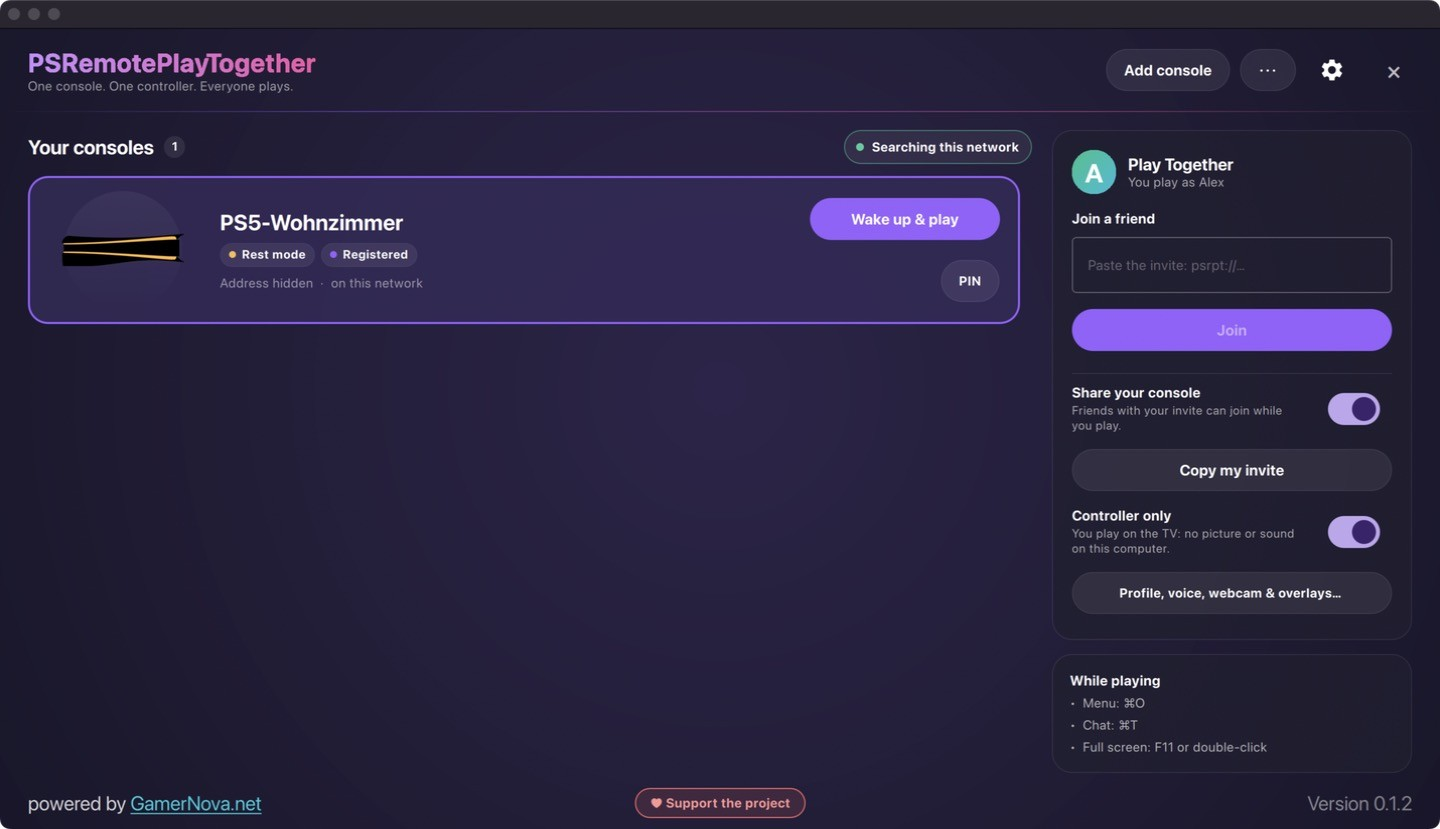
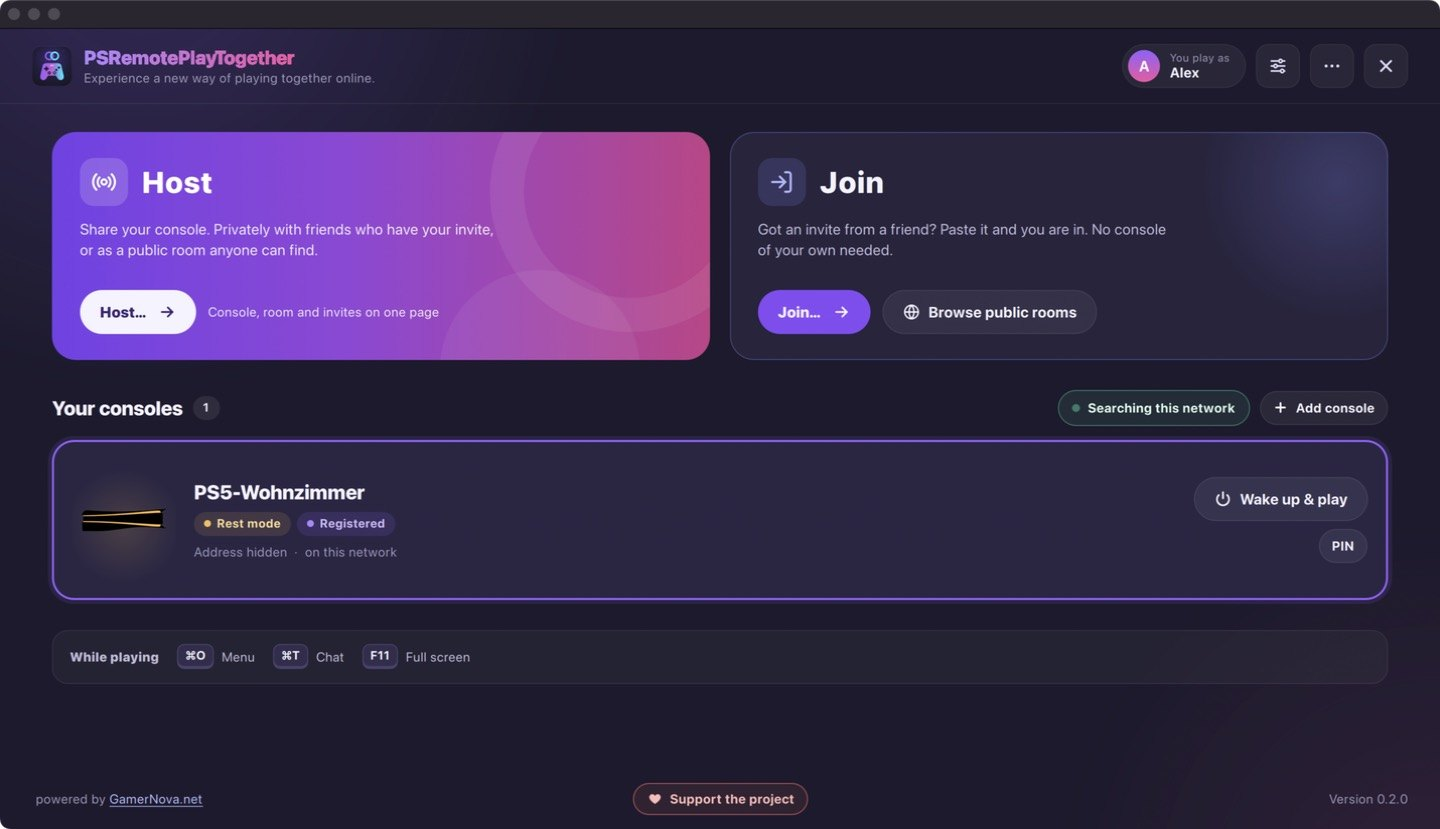
README: the new look, with new screenshots
New screenshots of the redesigned app with made-up players and a stand-in
for the game picture: the start page, the Host page, the public rooms with
live pictures and who plays, the stream menu with the Play Together panel,
the settings window, and the page for browsers. The features list gains
the live rooms, the new look and the settings window; the public rooms
section says what is live and who is shown; menu paths point to the new
settings pages (README, docs, server READMEs). The CHANGELOG has the
redesign and the settings window.

coplay-sim sends its guests' own pictures to the list as well, where they
are small JPEGs, as the app does.

diff --git a/coplay/tools/sim.cpp b/coplay/tools/sim.cpp
@@ -97,8 +97,9 @@ static void Usage()
 		"                          finds it in Sony's catalog by the title id)\n"
 		"      --preview A.jpg     a picture of the game for the list (a JPEG of at most 640x360),\n"
 		"                          sent as often as the list asks, as the app sends a frame\n"
-		"      --face A.jpg        the host's picture for the list (a JPEG of at most 128x128);\n"
-		"                          guests show their initial there\n"
+		"      --face A.jpg        the host's picture for the list (a JPEG of at most 128x128); the\n"
+		"                          guests' own pictures go along where they are such JPEGs too,\n"
+		"                          the others show their initial there\n"
 		"      --policy ask|watch|open  who gets in (default open); \"ask\" lets each one in\n"
 		"                          after --admit-after seconds, or refuses with --refuse\n"
 		"      --admit-after N     seconds before a guest that knocks is let in (default 3)\n"
@@ -843,11 +844,27 @@ static int RunHost(const Options &o)
 		if(face_encoded.empty())
 			std::fprintf(stderr, "--face: cannot read %s\n", o.face.c_str());
 	}
-	// The host's picture first, nothing for the guests: sent when the players change
-	auto send_faces = [&](size_t players) {
+	// The host's picture first, then each guest's where it is a small JPEG (the list takes
+	// nothing else; the app makes one of any picture): sent when the players or their pictures change
+	auto guest_faces = [&]() {
+		std::vector<std::string> faces;
+		for(const GuestInfo &g : host.Guests())
+		{
+			BlobData data = g.avatar.Valid() ? host.Avatar(g.avatar.hash) : nullptr;
+			bool jpeg = data && data->size() >= 3 && data->size() <= 8 * 1024
+				&& (*data)[0] == 0xff && (*data)[1] == 0xd8 && (*data)[2] == 0xff;
+			faces.push_back(jpeg ? url64(*data) : std::string());
+		}
+		return faces;
+	};
+	std::string faces_sent;
+	auto send_faces = [&](size_t) {
 		std::string list = face_encoded;
-		for(size_t i = 1; i < players; i++)
-			list += ",";
+		for(const std::string &face : guest_faces())
+			list += "," + face;
+		if(list == faces_sent)
+			return;
+		faces_sent = list;
 		HttpRequest request;
 		request.url = o.rooms;
 		request.body = FormBody({ { "v", "1" }, { "action", "faces" }, { "id", room_id }, { "token", room_token },
@@ -895,6 +912,9 @@ static int RunHost(const Options &o)
 				if(changed && !face_encoded.empty())
 					send_faces(players);
 			}
+			// A guest's picture arrives a moment after the guest
+			if(!face_encoded.empty() && players > 1)
+				send_faces(players);
 			if(!preview_encoded.empty() && now >= next_preview)
 			{
 				next_preview = now + std::chrono::seconds(45);

diff --git a/README.md b/README.md
@@ -139,12 +139,22 @@ Guests need **no PlayStation and no PSN account**. The invite contains the host'
   </tr>
   <tr>
     <td width="50%">
-      <h3>🌍 Public rooms</h3>
-      Host privately for your friends, or list your session as a public room with a title, a language and the game that runs. Others search the list by title, game, host or language, in the app or in a browser, see who controls and how many play, and join.
+      <h3>🌍 Public rooms, live</h3>
+      Host privately for your friends, or list your session as a public room with a title, a language and the game that runs. The list shows a <b>live picture</b> of every game and <b>who plays</b>, with their pictures. Search it by title, game, host or language, in the app or in a browser, and join.
     </td>
     <td width="50%">
       <h3>🚦 You decide who gets in</h3>
       Let each player in yourself, let newcomers watch until you let them play, or open the door to everybody. Close the room to newcomers at any time, and remove a player, for good if you like.
+    </td>
+  </tr>
+  <tr>
+    <td width="50%">
+      <h3>🎨 A new look</h3>
+      Two doors on the start page, <b>Host</b> and <b>Join</b>, each one page from start to finish. In the game, Play Together sits in a panel at the side. Everything works with a controller as well as with a mouse.
+    </td>
+    <td width="50%">
+      <h3>⚙ One settings window</h3>
+      All settings in one place, in plain words, with a search that finds any of them. Your profile shows how the others see you.
     </td>
   </tr>
 </table>
@@ -171,7 +181,9 @@ Guests need **no PlayStation and no PSN account**. The invite contains the host'
 When a guest leaves, the console stays as it is: only you send it to sleep, unless you switched on **Guests may put the console to sleep when they leave**, for example for a friend who plays on while you are away.
 
 <div align="center">
-  <img src="docs/images/screenshots/start-page.jpg" alt="The start page: your console, joining a friend, sharing your console and Controller only" width="820">
+  <img src="docs/images/screenshots/start-page.jpg" alt="The start page: Host and Join, and your consoles" width="820">
+  <br><br>
+  <img src="docs/images/screenshots/host.jpg" alt="The Host page: the console, private or public room, who gets in, players, how your room looks in the list, and the invites" width="820">
 </div>
 
 ### Does the host have to open a port?
@@ -182,7 +194,7 @@ Usually not.
 | :--- | :--- |
 | in the same network or the same VPN | Nothing. Send the **Same network** invite. |
 | somewhere on the internet | With most routers: nothing. Send the **Internet** invite. The two apps find each other through a small **meeting point** on the internet and then connect directly. |
-| somewhere on the internet, and it does not connect | Forward **UDP port 9410** to your computer in your router. That always works, and it is used by itself as soon as it is there. The port can be changed under Play Together. |
+| somewhere on the internet, and it does not connect | Forward **UDP port 9410** to your computer in your router. That always works, and it is used by itself as soon as it is there. The port can be changed under **Settings → Network & invites**. |
 | in a web browser, and it does not connect | Forward **UDP port 9411** as well: browsers come in on a port of their own, one above the sharing port. |
 
 Guests never open a port.
@@ -191,9 +203,9 @@ Guests never open a port.
 
 It works with ordinary home routers and over IPv6. It does not get through when a router gives every connection a new port ("symmetric NAT", common in mobile networks and with some fibre providers) and the router on the other side is strict as well. While you share, the stream menu says which case you are in. The details are in [docs/nat-traversal.md](docs/nat-traversal.md).
 
-For this the app asks a STUN server for your address on the internet (Google's by default) and uses the meeting point at gamernova.net. Both can be changed or switched off under **Play Together**, and the meeting point is one small PHP file that you can host yourself: [server/meeting-point](server/meeting-point).
+For this the app asks a STUN server for your address on the internet (Google's by default) and uses the meeting point at gamernova.net. Both can be changed or switched off under **Settings → Network & invites**, and the meeting point is one small PHP file that you can host yourself: [server/meeting-point](server/meeting-point).
 
-> 💡 **Still no way through?** Put everybody into one virtual network with a mesh VPN such as Tailscale or ZeroTier, enter your VPN address under **Play Together → Own internet address** and send that invite.
+> 💡 **Still no way through?** Put everybody into one virtual network with a mesh VPN such as Tailscale or ZeroTier, enter your VPN address under **Settings → Network & invites → Own internet address** and send that invite.
 
 ### Join a friend
 
@@ -218,20 +230,30 @@ On the game picture it looks and works like the app: the same display of players
 
 The connection goes straight from the browser to the host's computer (WebRTC), set up through the same meeting point the app uses; nothing of the session passes through a server. The key of the session stands behind the `#` of the link, which a browser never sends anywhere, and the page takes it out of the address bar as soon as it is opened.
 
-Where a browser falls short: the game's haptics arrive as plain rumble, and it adds a little delay compared to the app. The touchpad, the motion sensors, adaptive triggers and the light bar need a DualSense that the browser opens directly (Chrome and Edge only, **DualSense…** in the stream menu; this part is new and little tested). A PS5 streams H.265 by default, which Chrome, Edge and Safari play on most computers; if a friend's browser cannot, the host can switch to H.264 under **Settings → Video**. Like the app without a forwarded port, it does not get through every pair of routers (see above). A browser cannot use the sharing port; if a friend's browser cannot connect, the host forwards a second one for browsers, **UDP port 9411** (one above the sharing port, to be changed under Play Together).
+Where a browser falls short: the game's haptics arrive as plain rumble, and it adds a little delay compared to the app. The touchpad, the motion sensors, adaptive triggers and the light bar need a DualSense that the browser opens directly (Chrome and Edge only, **DualSense…** in the stream menu; this part is new and little tested). A PS5 streams H.265 by default, which Chrome, Edge and Safari play on most computers; if a friend's browser cannot, the host can switch to H.264 under **Settings → Stream quality**. Like the app without a forwarded port, it does not get through every pair of routers (see above). A browser cannot use the sharing port; if a friend's browser cannot connect, the host forwards a second one for browsers, **UDP port 9411** (one above the sharing port, to be changed under **Settings → Network & invites**).
 
-It can be switched off on the **Host…** page (**Friends without the app can join from a web browser**), and the page is a folder of static files (`web/`) that you can host yourself. More in [docs/web-guests.md](docs/web-guests.md).
+It can be switched off on the **Host…** page (**Browsers allowed**), and the page is a folder of static files (`web/`) that you can host yourself. More in [docs/web-guests.md](docs/web-guests.md).
+
+<div align="center">
+  <img src="docs/images/screenshots/web-rooms.jpg" alt="The page for web browsers: paste a link, or pick a public room" width="820">
+</div>
 
 ### Public rooms
 
 A session can be found by people you have never sent an invite to. Choose **Public** on the **Host…** page and give the room a title and a language; the game that runs on the console is shown by itself, with its picture from Sony's public catalog.
 
-- **Finding one:** **Join… → Public rooms** in the app, or the page for web browsers without an invite. Search by title, game, host or language, pick a language, and hide full rooms or rooms where the host lets each player in; the app also sorts them by players, free places or age. Every room shows the game, how many play, who controls (everybody at once, one at a time, or only the host), and whether browsers are welcome.
+- **Finding one:** **Join… → Public rooms** in the app, or the page for web browsers without an invite. Search by title, game, host or language, pick a language, and hide full rooms or rooms where the host lets each player in; the app also sorts them by players, free places or age. Every room shows the game, who plays and how many, who controls (everybody at once, one at a time, or only the host), and whether browsers are welcome.
+- **Live:** every 45 seconds the host's app sends a small picture of the game, so the list shows what is happening right now, with the game's cover in the corner. **Live picture in the list** on the Host page switches it off; in streamer mode it is always off.
+- **Who plays:** each player as a small circle, with the picture they chose in the app, or the first letter of their name. The list never gets the other players' names.
 - **Getting in** works like with an invite: straight to the host, nothing passes through the list. If the host lets each player in, you wait at the door until they do.
 - **As the host** you see who knocks, as a note on the game picture and in the stream menu, and press **Let in** or **No**. In the stream menu the room can be **Closed to newcomers** (it leaves the list; players who were in before can come back), and a click on a player removes them, with **Remove and block** for the rest of the session.
-- **What the list shows about you:** the room's title and language, the game, your name in the app, the number of players, and an invite: the room has a key of its own, new for every public session, and your private invites stay private. The invite names no address, but players connect to your computer directly, as with every invite, and so learn its internet address. In a public room that can be anybody who reads the list.
+- **What the list shows about you:** the room's title and language, the game and its live picture, your name in the app, the players' pictures or initials, and an invite: the room has a key of its own, new for every public session, and your private invites stay private. The invite names no address, but players connect to your computer directly, as with every invite, and so learn its internet address. In a public room that can be anybody who reads the list.
 
-The list is one small PHP file next to the meeting point, which you can host yourself: [server/rooms](server/rooms). **Play Together → Network → Public rooms** takes the address of your own, and **off** switches public rooms off.
+<div align="center">
+  <img src="docs/images/screenshots/public-rooms.jpg" alt="Join, public rooms: live pictures of the games, who plays, and how to get in" width="820">
+</div>
+
+The list is one small PHP file next to the meeting point, which you can host yourself: [server/rooms](server/rooms). **Settings → Network & invites → Servers** switches public rooms off, or takes the address of a list of your own.
 
 ### Your controller
 
@@ -239,10 +261,18 @@ Connect your controller **to your computer**, by Bluetooth or cable, not to the 
 
 ### While you play: the stream menu
 
-Press **Ctrl+O** (**⌘O** on macOS), or hold **L1 + R1 + L3 + R3** on the controller, to open the stream menu on top of the game. It has the players, your microphone, the others' voices and your webcam, who may control, the invite, and the overlays. The host can click a player to mute them for everybody, let them only watch, or remove them (with **Remove and block**, for the rest of the session), answer who wants to join, and close the session to newcomers.
+Press **Ctrl+O** (**⌘O** on macOS), or hold **L1 + R1 + L3 + R3** on the controller, to open the stream menu on top of the game. Play Together sits in a panel at the side: who knocks, who controls, the players with their webcams, your microphone, the others' voices and your webcam, and the chat. Sound, picture, quality and the overlays are in the bar at the bottom. The host can click a player to mute them for everybody, let them only watch, or remove them (with **Remove and block**, for the rest of the session), answer who wants to join, and close the session to newcomers.
 
 <div align="center">
-  <img src="docs/images/screenshots/stream-menu.jpg" alt="The stream menu on top of the game" width="820">
+  <img src="docs/images/screenshots/stream-menu.jpg" alt="The stream menu: the Play Together panel with the players, voice, webcam and chat, and the bar at the bottom" width="820">
+</div>
+
+### Settings
+
+Everything is in one window: **Playing** (general, picture, stream quality, sound, controllers, keyboard), **Play Together** (voice and webcam, overlays and OBS, network and invites), **Consoles** (yours, and away from home with PSN) and **App** (setting sets, updates and logs), with your profile on top. The search field finds any setting and lights it up on its page. With a controller, L1 and R1 change the page.
+
+<div align="center">
+  <img src="docs/images/screenshots/settings.jpg" alt="The settings window: a sidebar with all pages, here Overlays & OBS" width="820">
 </div>
 
 ---
@@ -257,7 +287,7 @@ You do not need friends in the session to use this for your stream.
 
 **Setting up the overlay**
 
-1. **Play Together → Overlays → OBS overlay → Overlay on**.
+1. **Settings → Overlays & OBS → OBS overlay** on.
 2. Add the address shown there (`http://localhost:9412/` by default) to OBS as a **Browser Source**.
 3. For the players' voices to reach your stream, tick **Control audio via OBS** in the Browser Source.
 
@@ -293,7 +323,7 @@ Controller looks: DualSense in white, Midnight Black, Cosmic Red, Nova Pink, Sta
 
 ## 🖼 On the game picture
 
-**Play Together → Overlays → On the game picture**, or **Options…** under Overlays in the stream menu, decides what lies on top of the game for you while playing: the players with picture, name and a ring that lights up when they talk, the webcams, everybody's controller, the controller the console gets, and short notes when somebody joins or writes.
+**Settings → Overlays & OBS → On your game picture**, or **Options…** under Overlays in the stream menu, decides what lies on top of the game for you while playing: the players with picture, name and a ring that lights up when they talk, the webcams, everybody's controller, the controller the console gets, and short notes when somebody joins or writes.
 
 Choose **Arrange** in the stream menu to drag the pieces into place; the mouse wheel or the + and − buttons change a piece's size.
 
@@ -309,11 +339,11 @@ Three looks: transparent without boxes (the default), glass boxes, dark boxes. A
 <details>
 <summary><b>Voice chat, webcam and text chat in detail</b></summary>
 
-**Voice chat and webcam.** **Play Together → Voice & webcam** has the settings: take part in the voice chat, start muted, which webcam and how large its picture is. Microphone and speakers are the ones from the audio settings. You never hear your own voice in the app, only the others. Use headphones: without them the others hear themselves through your microphone.
+**Voice chat and webcam.** **Settings → Voice & webcam** has the settings: take part in the voice chat, start muted, which webcam and how large its picture is. Microphone and speakers are the ones from **Settings → Sound & Wi-Fi**. You never hear your own voice in the app, only the others. Use headphones: without them the others hear themselves through your microphone.
 
 **Text chat.** Press **Ctrl+T** (**⌘T** on macOS), or choose **Chat** in the stream menu. The chat opens beside the game and takes the keyboard while it is open; Escape gives it back to the game. Anybody who joins later sees the last 30 messages.
 
-- Links can be clicked. For the first link in your own message, your app looks at the page once and sends a small preview along, so your friends' apps never contact a site they did not choose. This can be switched off under **Play Together → Voice & webcam**.
+- Links can be clicked. For the first link in your own message, your app looks at the page once and sends a small preview along, so your friends' apps never contact a site they did not choose. This can be switched off under **Settings → Voice & webcam**.
 - Emoji come from the picker, from shortcodes such as `:fire:`, `:gg:`, `:thumbsup:`, and from `:)`, `:D`, `<3`, `xD`.
 - New messages show on the game picture for a few seconds and, if you want, in the OBS overlay.
 
@@ -348,19 +378,19 @@ Roughly the Remote Play bitrate per guest, plus 0.4 to 2.5 Mbit/s per webcam and
 Usually not: with most routers friends get in by themselves, through the meeting point. If a friend cannot connect, forwarding UDP port 9410 always works. See [Does the host have to open a port?](#does-the-host-have-to-open-a-port)
 
 **What does the meeting point learn about us?**
-The IP addresses of the computers that ask it, like any web server. It cannot read the notes the apps leave there, never sees the session's key, and no picture, sound or controller data passes through it. **Play Together → Meeting point → off** switches it off; then the forwarded port is the only way in.
+The IP addresses of the computers that ask it, like any web server. It cannot read the notes the apps leave there, never sees the session's key, and no picture, sound or controller data passes through it. The **Meeting point** switch under **Settings → Network & invites** turns it off; then the forwarded port is the only way in.
 
 **Is the invite safe to share?**
-It is the key to your session, so give it only to the people who should join. Everything between host and guests is encrypted with it, and **Make a new invite** under Play Together makes old ones stop working.
+It is the key to your session, so give it only to the people who should join. Everything between host and guests is encrypted with it, and **New invites…** under **Settings → Network & invites** makes old ones stop working.
 
 **Can strangers get into my session?**
 Only into a public room, and only as you set it up: with **I let each player in**, nobody sees or plays anything before you let them in. Your private invites never appear on the list; a public room has a key of its own, which is new for every public session. **Closed to newcomers** in the stream menu takes the room off the list.
 
 **Nothing shows on the game picture on Windows or Linux?**
-The display on the game picture needs the Vulkan renderer there, which is the default: **Settings → Video → Renderer**.
+The display on the game picture needs the Vulkan renderer there, which is the default: **Settings → Picture → Renderer**.
 
 **How do I get updates?**
-The app asks GitHub at start whether a newer version exists and tells you. It never downloads anything by itself, and the check can be switched off under **Settings → General**.
+The app asks GitHub at start whether a newer version exists and tells you. It never downloads anything by itself, and the check can be switched off under **Settings → Updates & logs**.
 
 ---
 

diff --git a/CHANGELOG.md b/CHANGELOG.md
@@ -5,6 +5,9 @@ becomes the "What's new" part of its release notes (`scripts/ci/release-notes.sh
 
 ## 0.2.1
 
+- **A new look.** The whole app is redesigned: the start page with its two doors, **Host** and **Join**, the Host and Join pages, the stream menu, the settings and every dialog. In the game, Play Together sits in a panel at the side (who knocks, who controls, the players with their webcams, your voice and webcam, the chat), with sound, picture, quality and overlays in a bar at the bottom. Everything works with a controller as well as with a mouse. The page for browsers looks the same.
+- **One settings window.** The settings and the Play Together settings are one window with a sidebar (Playing, Play Together, Consoles, App) and your profile on top. A search field finds any setting on any page and lights it up there. Every setting is one row in plain words; choices are buttons you see at once, on and off are switches, amounts are sliders with their value. Keys are changed right on the page: click a key, press the new one. The meeting point and public rooms have real switches, and an address of your own comes back when you switch them on again. Each console has its own **Start right away** switch (was auto-connect). "Profiles" are now **Setting sets**, so they are not mixed up with your player profile. **Your profile** shows how the others see you.
+- **Fixed: "Copy the address"** next to the renderer's documentation copied the PSN login address instead.
 - **Fixed: no note for new chat messages.** While the chat was closed, a message from somebody else never showed on the game picture in the app, although the option for it was on. It does now, for a few seconds at the bottom left, as it already did in the browser.
 - **Guests are no longer asked about the console's sleep.** Leaving a session asked every guest whether the console should go to sleep, and the answer did nothing: only the host can do that. Guests are not asked any more.
 - **New: guests may put the console to sleep, if you say so.** **Guests may put the console to sleep when they leave** on the Host page, off by default. With it on, a guest who leaves is asked, in the app and in the browser, and "Sleep" ends the session for everybody. Waking the console stays the host's: a session only exists once the host's app is connected.
@@ -13,8 +16,8 @@ becomes the "What's new" part of its release notes (`scripts/ci/release-notes.sh
 - **New: a live picture in the list.** A public room shows what is being played right now: every 45 seconds the host's app takes one frame of the stream, makes a small picture of it (320×180) and sends it to the list, which shows it with a "Live" mark instead of the cover, in the app and on the page. **Live picture in the list** on the Host page switches it off; in streamer mode it is always off.
 - **New: who plays, in the list.** Each public room shows its players as small circles, the host first: their own picture where they chose one, otherwise the first letter of their name, with how many play of how many. Only initials and pictures go to the list, never the other players' names.
 - **New: you decide who gets in.** A public room lets each player in when the host says so, lets newcomers watch until the host lets them play, or is open to everybody. Who knocks shows as a note on the game picture and in the stream menu, with **Let in** and **No**; a guest at the door sees "Waiting for the host to let you in…". **Closed to newcomers** in the stream menu takes the room off the list and turns newcomers away, while players who were in before can come back. **Remove and block** keeps a player out for the rest of the session. A player keeps whether they may control when they come back.
-- **One place for each thing.** The Play Together page is about the settings now: your profile, the network, voice, webcam and overlays. Nothing to join or share is on two pages any more. Menus and lists open where they fit, never cut off at the edge of the window.
-- **For servers of your own:** the list of public rooms is one small PHP file, like the meeting point (`server/rooms` in the source code). **Play Together → Network → Public rooms** takes its address, or **off**.
+- **One place for each thing.** Nothing to join or share is on two pages any more, and the settings only hold settings. Menus and lists open where they fit, never cut off at the edge of the window.
+- **For servers of your own:** the list of public rooms is one small PHP file, like the meeting point (`server/rooms` in the source code). **Settings → Network & invites → Servers** takes its address, or switches public rooms off.
 - **In the browser:** when a controller goes away on a phone or tablet, the controls on the screen come back.
 
 ## 0.2.0

diff --git a/docs/web-guests.md b/docs/web-guests.md
@@ -51,7 +51,7 @@ host's TV needs.
 **H.265.** A PS5 streams H.265 unless the host changes it. Chrome, Edge and
 Safari decode it where the computer has a hardware decoder, which is most of
 them; Firefox on fewer. A guest whose browser cannot is told so, and the host
-can switch to H.264 (Settings → Video).
+can switch to H.264 (Settings → Stream quality).
 
 **Delay.** Measured on one machine the way through WebRTC adds about a
 millisecond in each direction. What a browser adds on top is its decoder and
@@ -155,14 +155,14 @@ and a web page may talk to it as long as it answers with
   only asked for when the guest ticks "Join the voice chat".
 - **The host stays in control.** Browser guests can be muted, set to watching
   and removed like everybody else, "Make a new invite" locks all old links
-  out, and **Play Together → Friends can join from a web browser** switches
+  out, and **Browsers allowed** on the Host page switches
   the whole thing off.
 
 The page is as trustworthy as where it is served from: whoever can change the
 files a guest loads could read the key. The built-in page is served straight
 from this repository. A host who would rather not rely on that can serve the
 folder `web/` from anywhere with HTTPS and enter that address under
-**Play Together → Page for browsers**; the links then lead there.
+**Settings → Network & invites → Page for browsers**; the links then lead there.
 
 ## The pieces
 
@@ -254,7 +254,7 @@ the other side's router is strict as well.
 For those cases the host can forward a port, as for the app, but not the same
 one: a browser's connection cannot share the socket the app's guests use. All
 browser guests come in on one UDP port of their own, **one above the sharing
-port (9411)** unless another is set under **Play Together → UDP port for
+port (9411)** unless another is set under **Settings → Network & invites → UDP port for
 browsers**. Forwarded to the host's computer, it lets a browser in whatever
 the friend's router is like.
 
@@ -263,7 +263,7 @@ so in the session's log and gives every browser a port of its own instead,
 which works with ordinary routers but cannot be forwarded.
 
 The link carries the host's choice of STUN server (`&stun=host:port`, or
-`&stun=off`) when the host has set one under Play Together; otherwise the page
+`&stun=off`) when the host has set one under Settings → Network & invites; otherwise the page
 asks Google's and Cloudflare's.
 
 ## Trying it on one machine

diff --git a/server/rooms/README.md b/server/rooms/README.md
@@ -18,7 +18,7 @@ internet address, as with every invite; with a listed invite that can be
 anybody who reads the list, which the app says on its Host page.
 
 The app uses `https://gamernova.net/api/psrpt_rooms.php` unless a user enters
-another address under Play Together → Public rooms. You only need this folder
+another address under Settings → Network & invites → Public rooms. You only need this folder
 if you run that one, or want one of your own.
 
 ## What it needs
@@ -55,9 +55,9 @@ then tells hosts not to send any and shows covers only.
 
        {"v":1,"ok":true,"poll":15000,"rooms":[]}
 
-3. In the app: Play Together → Public rooms → `example.org/psrpt_rooms.php`.
-   **off** switches public rooms off: nobody can host one, and Join shows no
-   list.
+3. In the app: Settings → Network & invites → Public rooms → Use my own… →
+   `example.org/psrpt_rooms.php`. The switch beside **Public rooms** turns them
+   off: nobody can host one, and Join shows no list.
 
 The page for browsers reads the built-in list; a copy of the page of your own
 reads another one when `DEFAULT_ROOMS_URL` in `web/js/rooms.js` names it.

diff --git a/server/meeting-point/README.md b/server/meeting-point/README.md
@@ -8,7 +8,7 @@ controller. How the whole thing works is in
 [docs/nat-traversal.md](../../docs/nat-traversal.md).
 
 The app uses `https://gamernova.net/api/psrpt_meet.php` unless a user enters
-another address under Play Together → Meeting point. You only need this folder
+another address under Settings → Network & invites → Meeting point. You only need this folder
 if you run that one, or want one of your own.
 
 ## What it needs
@@ -41,7 +41,8 @@ the server ever gets busy; the apps follow it.
 
        server/meeting-point/selftest.sh https://example.org/psrpt_meet.php
 
-4. In the app: Play Together → Meeting point → `example.org/psrpt_meet.php`.
+4. In the app: Settings → Network & invites → Meeting point → Use my own… →
+   `example.org/psrpt_meet.php`.
    Invites made after that carry the address (`...?meet=example.org/psrpt_meet.php`),
    so friends need not enter anything.
 

diff --git a/docs/releasing.md b/docs/releasing.md
@@ -63,7 +63,7 @@ GamerNova.net". Run it locally to see what a release will say.
 A moment after it starts, the app asks GitHub for the latest release
 (`gui/src/qmlbackend_update.cpp`). If that is newer than the running version,
 the start page shows "Update available" and offers to open the release page.
-Nothing is downloaded by itself, and **Settings → General → Check for updates**
+Nothing is downloaded by itself, and **Settings → Updates & logs → Check for updates**
 switches the check off. So a new release reaches existing users as soon as its
 "Publish the release" job is done.
 
